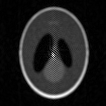
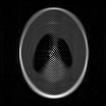
Speed up cryoSPARC

diff --git a/scripts/MAP2D.m b/scripts/MAP2D.m
@@ -37,7 +37,7 @@ original_projections = projections;
 original_shifts = zeros(size(theta));
 
 % Shift each projection by an unknown amount.
-for i=1:size(projections, 2)
+parfor i=1:size(projections, 2)
     original_shifts(i) = ...
         randi([-max_shift_amplitude, max_shift_amplitude]);
     projections(:, i) = circshift(projections(:, i), original_shifts(i)); 
@@ -67,8 +67,8 @@ disp(norm(min(abs(first_estimate_theta - theta),...
 disp(norm(first_estimate_shifts - original_shifts, 1));
 
 % Begin estimation of the first model.
-max_angle_err = 1;
-max_shift_err = 1;
+max_angle_err = 10;
+max_shift_err = 0;
 prob_matrix_height = (2*max_angle_err)/resolution_angle + 1;
 prob_matrix_width = 2*max_shift_err/resolution_space + 1;
 prob_matrix = ...
@@ -77,7 +77,7 @@ prob_matrix = ...
 
 % Start estimating the image.
 fourier_radial = zeros(625, 625);
-for i=1:size(prob_matrix, 1)
+parfor i=1:size(prob_matrix, 1)
     for j=1:size(prob_matrix, 2)
         probabilities = squeeze(prob_matrix(i, j, :))';
         prob_f_proj = bsxfun(@mtimes, f_projections, probabilities);
@@ -92,8 +92,8 @@ for i=1:size(prob_matrix, 1)
                 current_shift);
     end
 end
-max_angle_err = 1;
-max_shift_err = 1;
+max_angle_err = 2;
+max_shift_err = 0;
 
 f_image_estimate = fourier_radial(:);
 first_estimate_model = Ifft2_2_Img(fourier_radial, L_pad);
@@ -176,16 +176,16 @@ for q=1:no_of_iterations
 
     % Divide the projections with the noise variance.
     denoised_f_projections = ...
-        bsxfun(@rdivide, f_projections, (noise_estimate.^2));
+        bsxfun(@rdivide, f_projections, double(noise_estimate));
     normalization_f_denom = ...
-        bsxfun(@rdivide, ones(size(f_projections)), (noise_estimate.^2));
+        bsxfun(@rdivide, ones(size(f_projections)), double(noise_estimate));
 
     % Initialize the estimates.
     reconstructed_f_numerator = zeros(size(fourier_radial));
     recons_f_denom = zeros(size(fourier_radial));
 
     % Start estimating the image.
-    for i=1:size(prob_matrix, 1)
+    parfor i=1:size(prob_matrix, 1)
         for j=1:size(prob_matrix, 2)
             probabilities = squeeze(prob_matrix(i, j, :))';
             prob_f_proj = bsxfun(@mtimes, denoised_f_projections, probabilities);
@@ -215,6 +215,8 @@ for q=1:no_of_iterations
         weights./cconv((recons_f_denom_prior.*weights), w, size(f_image_estimate, 1));
     reconstructed_f_image = ...
         reconstructed_f_numerator.*recons_f_denom_weighted*1e4;
+    reconstructed_f_image = ...
+        reconstructed_f_image*norm(fourier_radial)/norm(reconstructed_f_image);
     reconstructed_f_image = ...
         reshape(reconstructed_f_image, [output_size, output_size]);
 

diff --git a/scripts/calc_prob_for_each_orientation.m b/scripts/calc_prob_for_each_orientation.m
@@ -35,8 +35,7 @@ function [prob_matrix, dist_matrix] = calc_prob_for_each_orientation(...
 	    [d, dist_proj_matrix, prior_matrix] =...
             denom_posterior_probability_orientation(f_proj,...
             f_image_estimate, estimated_orientation, first_orientation,...
-            projection_parameters, noise_estimate, prior_parameters,...
-            size(f_projections, 2));
+            projection_parameters, noise_estimate, prior_parameters);
 
 	    if d ~= 0
 	        for i=-max_angle_err:resolution_angle:max_angle_err
@@ -47,7 +46,7 @@ function [prob_matrix, dist_matrix] = calc_prob_for_each_orientation(...
                         shift_estimate(k) + j);
 
 	                % The numerator of the posterior probability.
-	                [~, dist_proj] = numer_posterior_probability_orientation(...
+	                [~, dist_proj, prior] = numer_posterior_probability_orientation(...
                         f_proj, f_image_estimate, first_orientation,...
                         given_orientation, projection_parameters,...
                         noise_estimate, prior_parameters);
@@ -58,9 +57,10 @@ function [prob_matrix, dist_matrix] = calc_prob_for_each_orientation(...
 	                	(max_shift_err + resolution_space)/resolution_space);
                     
                     % Calculate the probability.
-                    dist_k_orient = dist_proj_matrix(:, :, k) - dist_proj;
+                    dist_k_orient = dist_proj_matrix - dist_proj;
                     prob_k_orient = exp(dist_k_orient);
-                    final_prob_i_orient = 1/(sum(prob_k_orient.*prior_matrix));
+                    prob_temp = prob_k_orient.*prior_matrix;
+                    final_prob_i_orient = prior/(sum(prob_temp(:)));
 
 	                % Assign probability to the orientation.
 	                prob_matrix(index_x, index_y, k) = final_prob_i_orient;

diff --git a/scripts/cryoSPARC.m b/scripts/cryoSPARC.m
@@ -114,7 +114,7 @@ for q=1:no_of_iterations
 	w_hat_q = 1*(gamma^q);
 	sigma_bar = 1/(sigmaNoise.^2)*3100;
 	sigmaHat = 1*sigma_bar;
-	for i=1:q
+	parfor i=1:q
 		w_q = w_q +...
             ones(size(noise_estimate, 1), 1).*gamma^(q-i)*number_of_samples(i);
 		sigma_bar_q = sigma_bar_q + noise_estimate(:, i).*gamma^(q-i);
@@ -139,7 +139,7 @@ for q=1:no_of_iterations
     U_dist = ...
         zeros(size(sel_projections, 2),...
         (2*max_angle_err)/resolution_angle + 1);
-    for i=1:size(sel_projections, 2)
+    parfor i=1:size(sel_projections, 2)
         % The orientation specified for this iteration.
         estimated_orientation = Orientation(selected_angles(i), 0);
         
@@ -151,7 +151,7 @@ for q=1:no_of_iterations
         U_dist(i, :) = dist_vector;
     end
 
-	for j=-max_angle_err:resolution_angle:max_angle_err
+	parfor j=-max_angle_err:resolution_angle:max_angle_err
         
 		thetas_iter = selected_angles  + j;
 		projections_iter = zeros(size(sel_projections));
@@ -236,7 +236,7 @@ for q=1:no_of_iterations
 	disp(norm(image_estimate - P));
     
     % Update the number of samples for the next iteration.
-    if norm(image_estimate - P) < 10
+    if norm(image_estimate - P) < 7
         number_of_samples(q+1) = 100;
     else
         number_of_samples(q+1) = 30;

diff --git a/scripts/average_reconstruction_error.m b/scripts/average_reconstruction_error.m
@@ -13,7 +13,7 @@ function noise_estimate = average_reconstruction_error(f_image_estimate,...
     U = zeros(size(f_projections, 2), 1);
     U_dist = ...
         zeros(size(f_projections, 2), (2*max_angle_err)/resolution_angle + 1);
-    for i=1:size(f_projections, 2)
+    parfor i=1:size(f_projections, 2)
         f_proj = f_projections(:, i);
         % The orientation specified for this iteration.
         estimated_orientation = Orientation(theta_estimate(i), 0);
@@ -29,7 +29,7 @@ function noise_estimate = average_reconstruction_error(f_image_estimate,...
     % Initialize noise estimate.
     noise_estimate = zeros(projection_length, size(f_projections, 2));     
     for j=-max_angle_err:resolution_angle:max_angle_err
-        for k=1:size(f_projections, 2)
+        parfor k=1:size(f_projections, 2)
             % Calculate the projection.
             c_proj = project_fourier_alternate(fourier_radial,...
                 theta_estimate(k) + j, shift_estimate(k),...

diff --git a/scripts/denom_posterior_probability_orientation.m b/scripts/denom_posterior_probability_orientation.m
@@ -1,7 +1,7 @@
 function [prob, dist_matrix, prior_matrix] = denom_posterior_probability_orientation(...
     f_proj, f_image,...
     estimated_orientation, first_orientation, projection_parameters,... 
-    sigmaNoise, prior_parameters, num_projections)
+    sigmaNoise, prior_parameters)
     
     % Define the constants.
     max_angle_err = prior_parameters.max_angle_err;
@@ -14,9 +14,9 @@ function [prob, dist_matrix, prior_matrix] = denom_posterior_probability_orienta
     
     % Initialize the dist matrix and the prior matrix.
     dist_matrix = ...
-        zeros(prob_matrix_height, prob_matrix_width, num_projections);
+        zeros(prob_matrix_height, prob_matrix_width);
     prior_matrix = ...
-        zeros(prob_matrix_height, prob_matrix_width, num_projections);
+        zeros(prob_matrix_height, prob_matrix_width);
     
     for i=-max_angle_err:resolution_angle:max_angle_err
         for j=-max_shift_err:resolution_space:max_shift_err

diff --git a/scripts/project_fourier_alternate.m b/scripts/project_fourier_alternate.m
@@ -31,7 +31,7 @@ function projection = project_fourier_alternate(fourier_radial, probe_angle, shi
 
 	projection = zeros(proj_length, 1);
 
-	for i=1:proj_length
+	parfor i=1:proj_length
 		projection(i) = fourier_radial(probe_y(i), probe_x(i));
 	end
 
